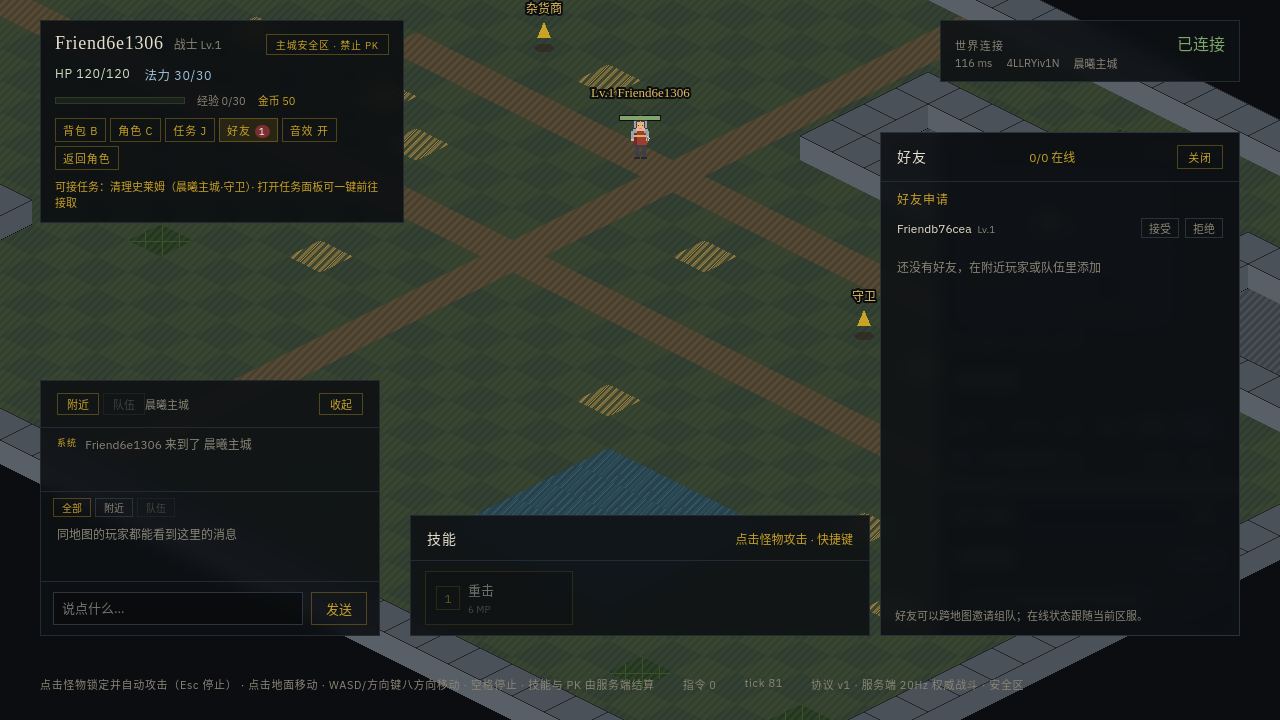
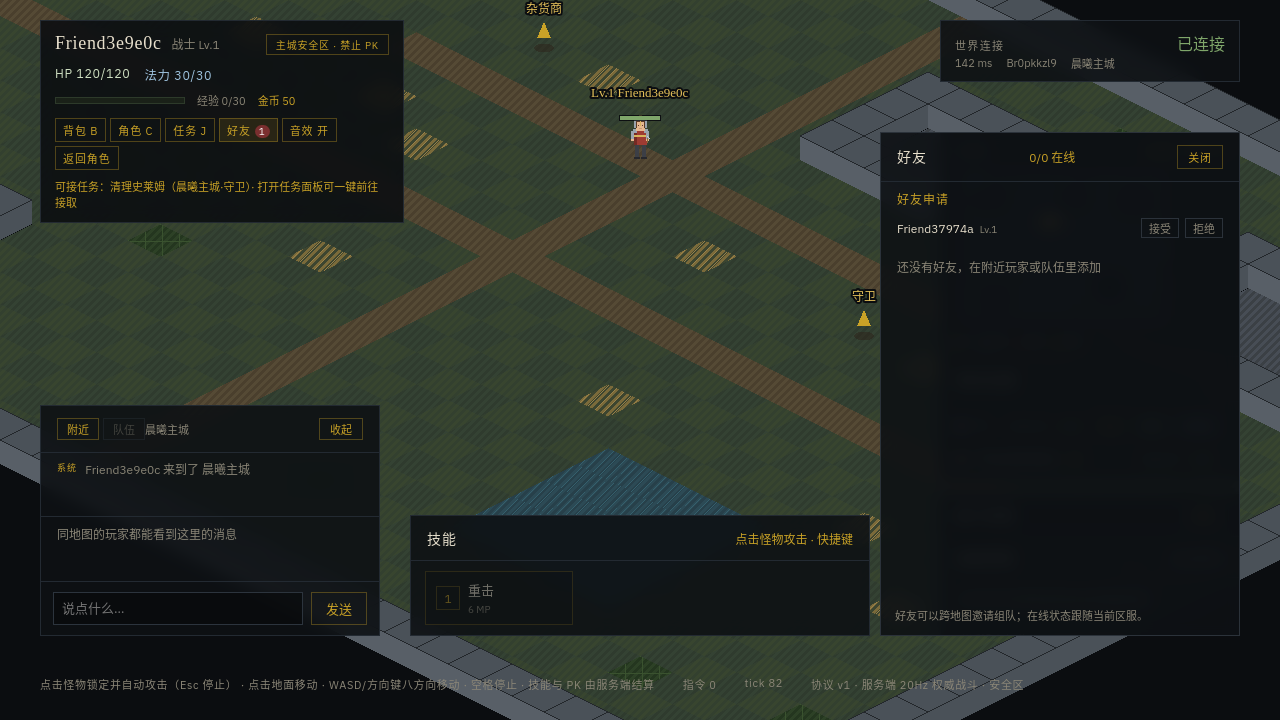
docs(alpha-03): record the single chat channel selector

diff --git a/docs/PROJECT_STATUS.md b/docs/PROJECT_STATUS.md
@@ -8,13 +8,13 @@
 
 ### 当前状态
 
-- **版本/阶段**：Alpha 0.3 S4-B“好友系统与聊天频道筛选”已完成（ADR-045）。
+- **版本/阶段**：Alpha 0.3 S4-B“好友系统与聊天频道选择器”已完成（ADR-045）。
   S1 组队、S2 世界首领、S3-A 每日任务、S3-B 一键流程、S3-C 十步主线、S3-D1
   收集任务、S3-D2 到达任务、S3-E 归属与拾取、S3-M 八方向移动、S4-A 队伍社交、
   移动手感修复与 Alpha 0.2 的 S1–S4-G 均已交付；S4 仅剩正式美术（TD-CLI-13）。
 - **最近里程碑**：好友系统——申请/接受/拒绝/删除、持久化好友关系（迁移
   `0011`）、在线状态复用进程级 presence、上下线事件、好友跨图组队邀请；聊天
-  日志增加「全部/附近/队伍」筛选（纯客户端）。修复了未组队玩家离开世界后
+  面板只有一套「附近/队伍」选择器，同时决定日志与发言（纯客户端）。修复了未组队玩家离开世界后
   presence 残留导致的幽灵在线。**623 个单元/集成测试**与 **51/51 浏览器 E2E**
   通过；50 人 × 2 分钟 tick p95 3.6ms、0 资产失败。证据：
   `docs/phase-reports/alpha-03/ALPHA_03_FRIENDS_REPORT.md`、ADR-045。
@@ -779,10 +779,10 @@ E2E 通过。**
   按名字邀请与世界内队伍标记仍开放（TD-CLI-17 剩余）。
 - 提交：`800f389` `feat(alpha-03): add party chat, leader transfer, and kick`。
 
-## 0.28 Alpha 0.3 S4-B：好友系统与聊天频道筛选（2026-11-28）
+## 0.28 Alpha 0.3 S4-B：好友系统与聊天频道选择器（2026-11-28）
 
 **已完成：好友申请/接受/拒绝/删除与列表、持久化好友关系、在线状态与上下线
-事件、好友跨图组队邀请；聊天日志支持「全部/附近/队伍」筛选。623 个单元/
+事件、好友跨图组队邀请；聊天面板用一套「附近/队伍」选择器同时决定日志与发言。623 个单元/
 集成测试与 51/51 浏览器 E2E 通过；迁移 `0011`、无内容发布。**
 
 - 报告：`docs/phase-reports/alpha-03/ALPHA_03_FRIENDS_REPORT.md`
@@ -800,7 +800,7 @@ E2E 通过。**
 - 修复：未组队玩家最终离开世界时 presence 未清理（幽灵在线 / 邀请落空）；
   现在无条件 `removePlayer`，过图仅 `markOffline`。
 - 客户端：好友面板（申请、已发送、在线列表、邀请、删除）、附近玩家「加好友」
-  与申请角标；聊天日志「全部/附近/队伍」筛选（纯展示）。
+  与申请角标；聊天「附近/队伍」选择器同时决定日志与发言（纯展示）。
 - 测试：新增 5 条契约、4 条应用集成、1 条 Room 集成与 1 条浏览器 E2E；真实
   PostgreSQL 覆盖关系事务，真实 Room 覆盖跨图好友邀请与陌生人拒绝。
 - 容量：50 人 × 2 分钟 sanity 50/50、接受率 98.7%、202 击杀、0 资产失败；
@@ -819,7 +819,7 @@ invites`。
 魔像”、S3-A“每日任务与留存循环”、S3-B“一键任务导航、全局面板与远程接取”、
 S3-C“十步主线任务链与废墟斥候”、S3-D1“收集类任务目标”、S3-E“归属、自动
 拾取与争夺掉落”、S3-D2“到达类任务目标”、S3-M“八方向移动与键盘操作”、
-S4-A“队伍社交（聊天、移交、踢人）”与 S4-B“好友系统与聊天频道筛选”已完成。
+S4-A“队伍社交（聊天、移交、踢人）”与 S4-B“好友系统与聊天频道选择器”已完成。
 Alpha 0.2 的 S1 商店、S2 三职业、S3 怪物威胁与死亡代价、S4-A 装备与背包、
 S4-B 废墟区域与 8–10 级成长线、S4-C 物品图标、S4-D HUD 重排、S4-E 场景
 可读性、S4-F tick 剖析、S4-G 任务链均已完成；S4 仅剩正式美术（TD-CLI-13）。
@@ -881,7 +881,7 @@ Alpha 0.3 以“玩家为什么每天回来”为目标，按任务 → Boss/副
 | Alpha 0.3 S3-E：归属与拾取     | 完成       | 怪物归属、自动拾取/飞行动效、争夺掉落、远处走近；内容 `2026.11.27.6`；576 测试  |
 | Alpha 0.3 S3-D2：到达任务      | 完成       | 位置裁定、一键探索、每日周期隔离；内容 `2026.11.27.7`；587 测试、48 E2E         |
 | Alpha 0.3 S4-A：队伍社交       | 完成       | 队伍聊天（跨图）、队长移交、踢人；无迁移/内容；613 测试、50 E2E                 |
-| Alpha 0.3 S4-B：好友与筛选     | 完成       | 好友申请/列表/在线/跨图邀请、聊天筛选；迁移 0011；623 测试、51 E2E              |
+| Alpha 0.3 S4-B：好友与频道     | 完成       | 好友申请/列表/在线/跨图邀请、频道选择器；迁移 0011；623 测试、51 E2E            |
 
 ## 3. 当前任务与待确认
 
@@ -906,8 +906,8 @@ Alpha 0.1/0.2/0.3 已交付内容见 §0；以下仍需用户确认或试玩：
    本轮新增——两名玩家组队后切换聊天「队伍」频道互发消息，队长点成员的「移交」
    把队长交给对方，再由新队长「踢出」原队长，观察双方名单与频道回退；本轮
    再新增——靠近另一名玩家点「加好友」，对方打开「好友」接受，双方列表显示
-   在线；从好友列表「邀请」跨图组队；发送地图与队伍消息后用日志上方「全部/
-   附近/队伍」筛选。
+   在线；从好友列表「邀请」跨图组队；发送地图与队伍消息后用聊天标题栏的
+   「附近/队伍」切换，确认日志与发言一起切换。
 4. 容量基线：Alpha 0.1 的 tick p95 10.25ms；S3-B 11.58ms；S4-B 14.75ms；
    S4-F 50 人 × 10 分钟 **5.34ms**（p99 6.67ms，0 资产失败）；S4-G 10 分钟
    **6.53ms**（p99 9.82ms）；Alpha 0.3 S1 2 分钟 **5.09ms**、10 分钟

diff --git a/docs/EVOLUTION_LOG.md b/docs/EVOLUTION_LOG.md
@@ -850,8 +850,8 @@ TD-CLI-07/TD-CLI-18；无数据库迁移、无内容发布。
 ## 2026-11-28 Alpha 0.3 S4-B：好友关系是持久的，在线状态是实时的
 
 **目标**：队伍解决了“在一起打”，但没有好友关系，离开视野就无法再组队，也没有
-办法跨图找到熟人。本切片交付好友申请/列表/在线状态与好友跨图组队，并把聊天
-日志按频道筛选。用户已确认的顺序是：频道筛选 + 好友 → 私聊 → 行会。
+办法跨图找到熟人。本切片交付好友申请/列表/在线状态与好友跨图组队，并并让聊天面板用一套
+频道选择器同时决定日志与发言。用户已确认的顺序是：频道筛选 + 好友 → 私聊 → 行会。
 
 **关键决策**
 
@@ -861,14 +861,14 @@ TD-CLI-07/TD-CLI-18；无数据库迁移、无内容发布。
    关系，双方互相申请直接成为好友；拒绝删除申请，删除好友删除关系。
 3. 好友只放宽“距离”，不放宽队伍语义。跨图/超范围邀请要求已接受好友且目标
    在线，创建、接受、共享奖励与跨图保留仍走 ADR-035/036 的既有路径。
-4. 频道筛选属于客户端展示层。服务器继续只投递有权限的消息，客户端过滤不能
+4. 频道选择属于客户端展示层。服务器继续只投递有权限的消息，客户端选择不能
    成为隐私边界。
 5. 共享事实必须有唯一所有者。实现时发现未组队玩家离开世界后 presence 从未
    清理，导致好友“幽灵在线”和跨图邀请落空；修复为最终离开无条件清理，
    过图只标记离线，并把提取独立在线目录登记为 TD-SRV-14。
 
 **结果**：好友申请/接受/拒绝/删除、持久化关系（迁移 0011）、在线状态与上下线
-事件、好友跨图组队邀请、好友面板与聊天筛选全部交付；623 个单元/集成测试与
+事件、好友跨图组队邀请、好友面板与频道选择器全部交付；623 个单元/集成测试与
 51/51 全量浏览器 E2E 通过；真实 PostgreSQL 覆盖关系事务，真实 Room 覆盖跨图
 邀请与陌生人拒绝；开发栈已迁移并重启。
 

diff --git a/docs/ALPHA_03_EXECUTION_PLAN.md b/docs/ALPHA_03_EXECUTION_PLAN.md
@@ -22,7 +22,7 @@
 | S3-E  | 怪物归属、自动拾取、争夺掉落与远处自动走近                 | 完成 | `docs/phase-reports/alpha-03/ALPHA_03_LOOT_PICKUP_REPORT.md`、ADR-041        |
 | S3-M  | 八方向移动：斜向寻路/阻挡、WASD 短步、空格停止             | 完成 | `docs/phase-reports/alpha-03/ALPHA_03_EIGHT_WAY_MOVEMENT_REPORT.md`、ADR-043 |
 | S4-A  | 队伍社交：队伍聊天、队长移交、踢人（跨图投递）             | 完成 | `docs/phase-reports/alpha-03/ALPHA_03_PARTY_SOCIAL_REPORT.md`、ADR-044       |
-| S4-B  | 好友系统：申请/列表/在线状态、好友跨图组队、频道筛选       | 完成 | `docs/phase-reports/alpha-03/ALPHA_03_FRIENDS_REPORT.md`、ADR-045            |
+| S4-B  | 好友系统：申请/列表/在线状态、好友跨图组队、频道选择器     | 完成 | `docs/phase-reports/alpha-03/ALPHA_03_FRIENDS_REPORT.md`、ADR-045            |
 | S4-C  | 待定：到达目标世界标记、按名字邀请                         | 待定 | —                                                                            |
 | S5    | 待定：交易或排行榜最小版                                   | 待定 | —                                                                            |
 
@@ -172,8 +172,8 @@
 4. 好友组队：同 Room 近距离邀请规则不变；跨图或超范围只允许已接受好友，且目标
    必须在线；非好友远距邀请返回 `PARTY_TARGET_UNAVAILABLE`。
 5. 客户端：好友面板（在线/离线、好友申请、已发送、邀请、删除）、附近玩家
-   「加好友」与未处理申请角标；聊天日志支持「全部 / 附近 / 队伍」筛选
-   （纯展示层，不改变服务端投递）。
+   「加好友」与未处理申请角标；聊天面板只有一套「附近 / 队伍」选择器，
+   同时决定日志显示与发言频道（纯展示层，不改变服务端投递）。
 6. 验证：623 个单元/集成测试、全量 51 个浏览器 E2E；真实 PostgreSQL 覆盖
    好友事务，真实 Room 覆盖跨图好友邀请与陌生人拒绝。
 

diff --git a/docs/WORKLOG.md b/docs/WORKLOG.md
@@ -4464,3 +4464,16 @@ LOAD_PLAYERS=50 LOAD_ATTACKERS=10 LOAD_DURATION_MS=120000 \
 - `7cb24c7` `feat(alpha-03): add persistent friends and cross-map party invites`
   （好友持久化与迁移、契约、应用服务、服务端通知与跨图邀请、客户端好友面板
   与聊天筛选、测试、ADR-045、切片报告、计划/债务/经验/演进记录与证据）。
+
+### 2026-11-28 体验修复：聊天频道合并为一套选择器
+
+- 背景：用户试玩发现左下角同时存在两套频道控件（标题栏的发送频道与日志上方的
+  「全部/附近/队伍」筛选行）；在两套控件之间切换时会出现“看着队伍频道、发言
+  却仍发到附近”的错位。
+- 修复：移除独立的筛选行；聊天面板只保留「附近 / 队伍」一套选择器，切到哪个
+  频道就只显示该频道消息，并发送到该频道；系统消息仍在独立的系统日志中展示；
+  离开或失去队伍时自动回到附近频道。输入框提示随频道变为“发送到队伍…”。
+- 测试：更新 `party.spec.ts` 与 `friends.spec.ts`，验证切换频道会同时切换日志
+  与输入提示、另一频道消息不再混排；全量 **51/51** 浏览器 E2E 通过。
+- 文档：切片报告、执行计划、状态与演进记录同步为“单一频道选择器”。
+- 提交：`1d7be49` `fix(alpha-03): use one chat channel selector for view and send`。
